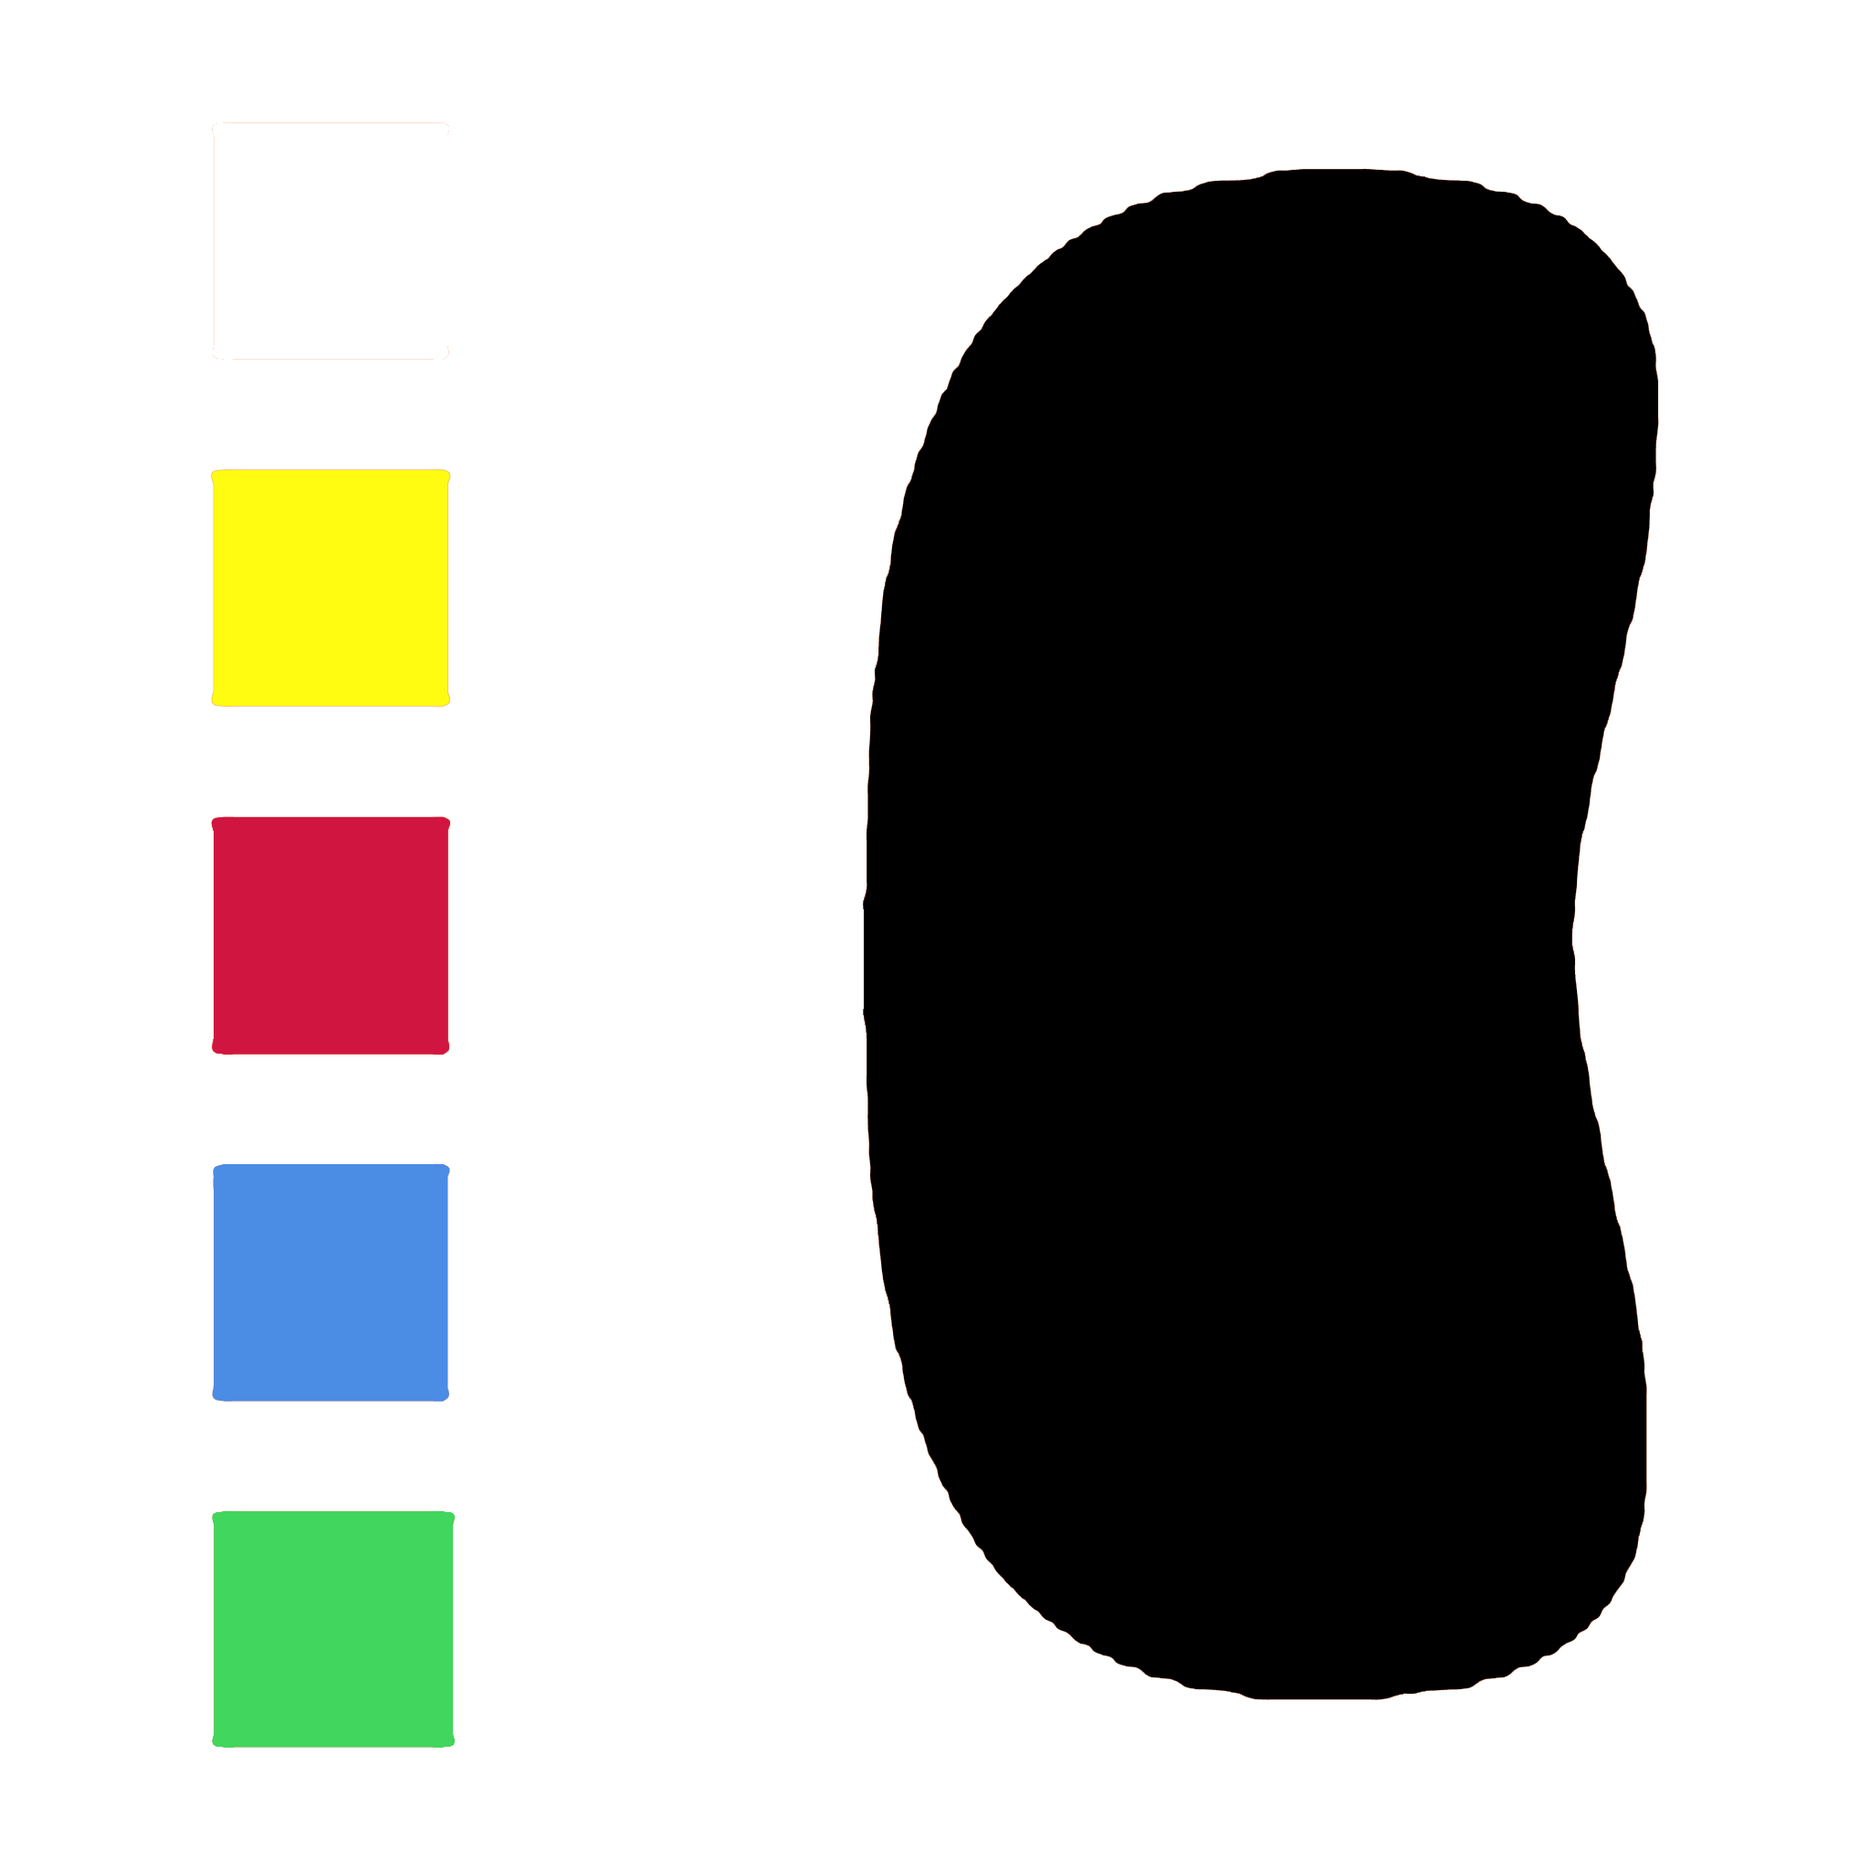
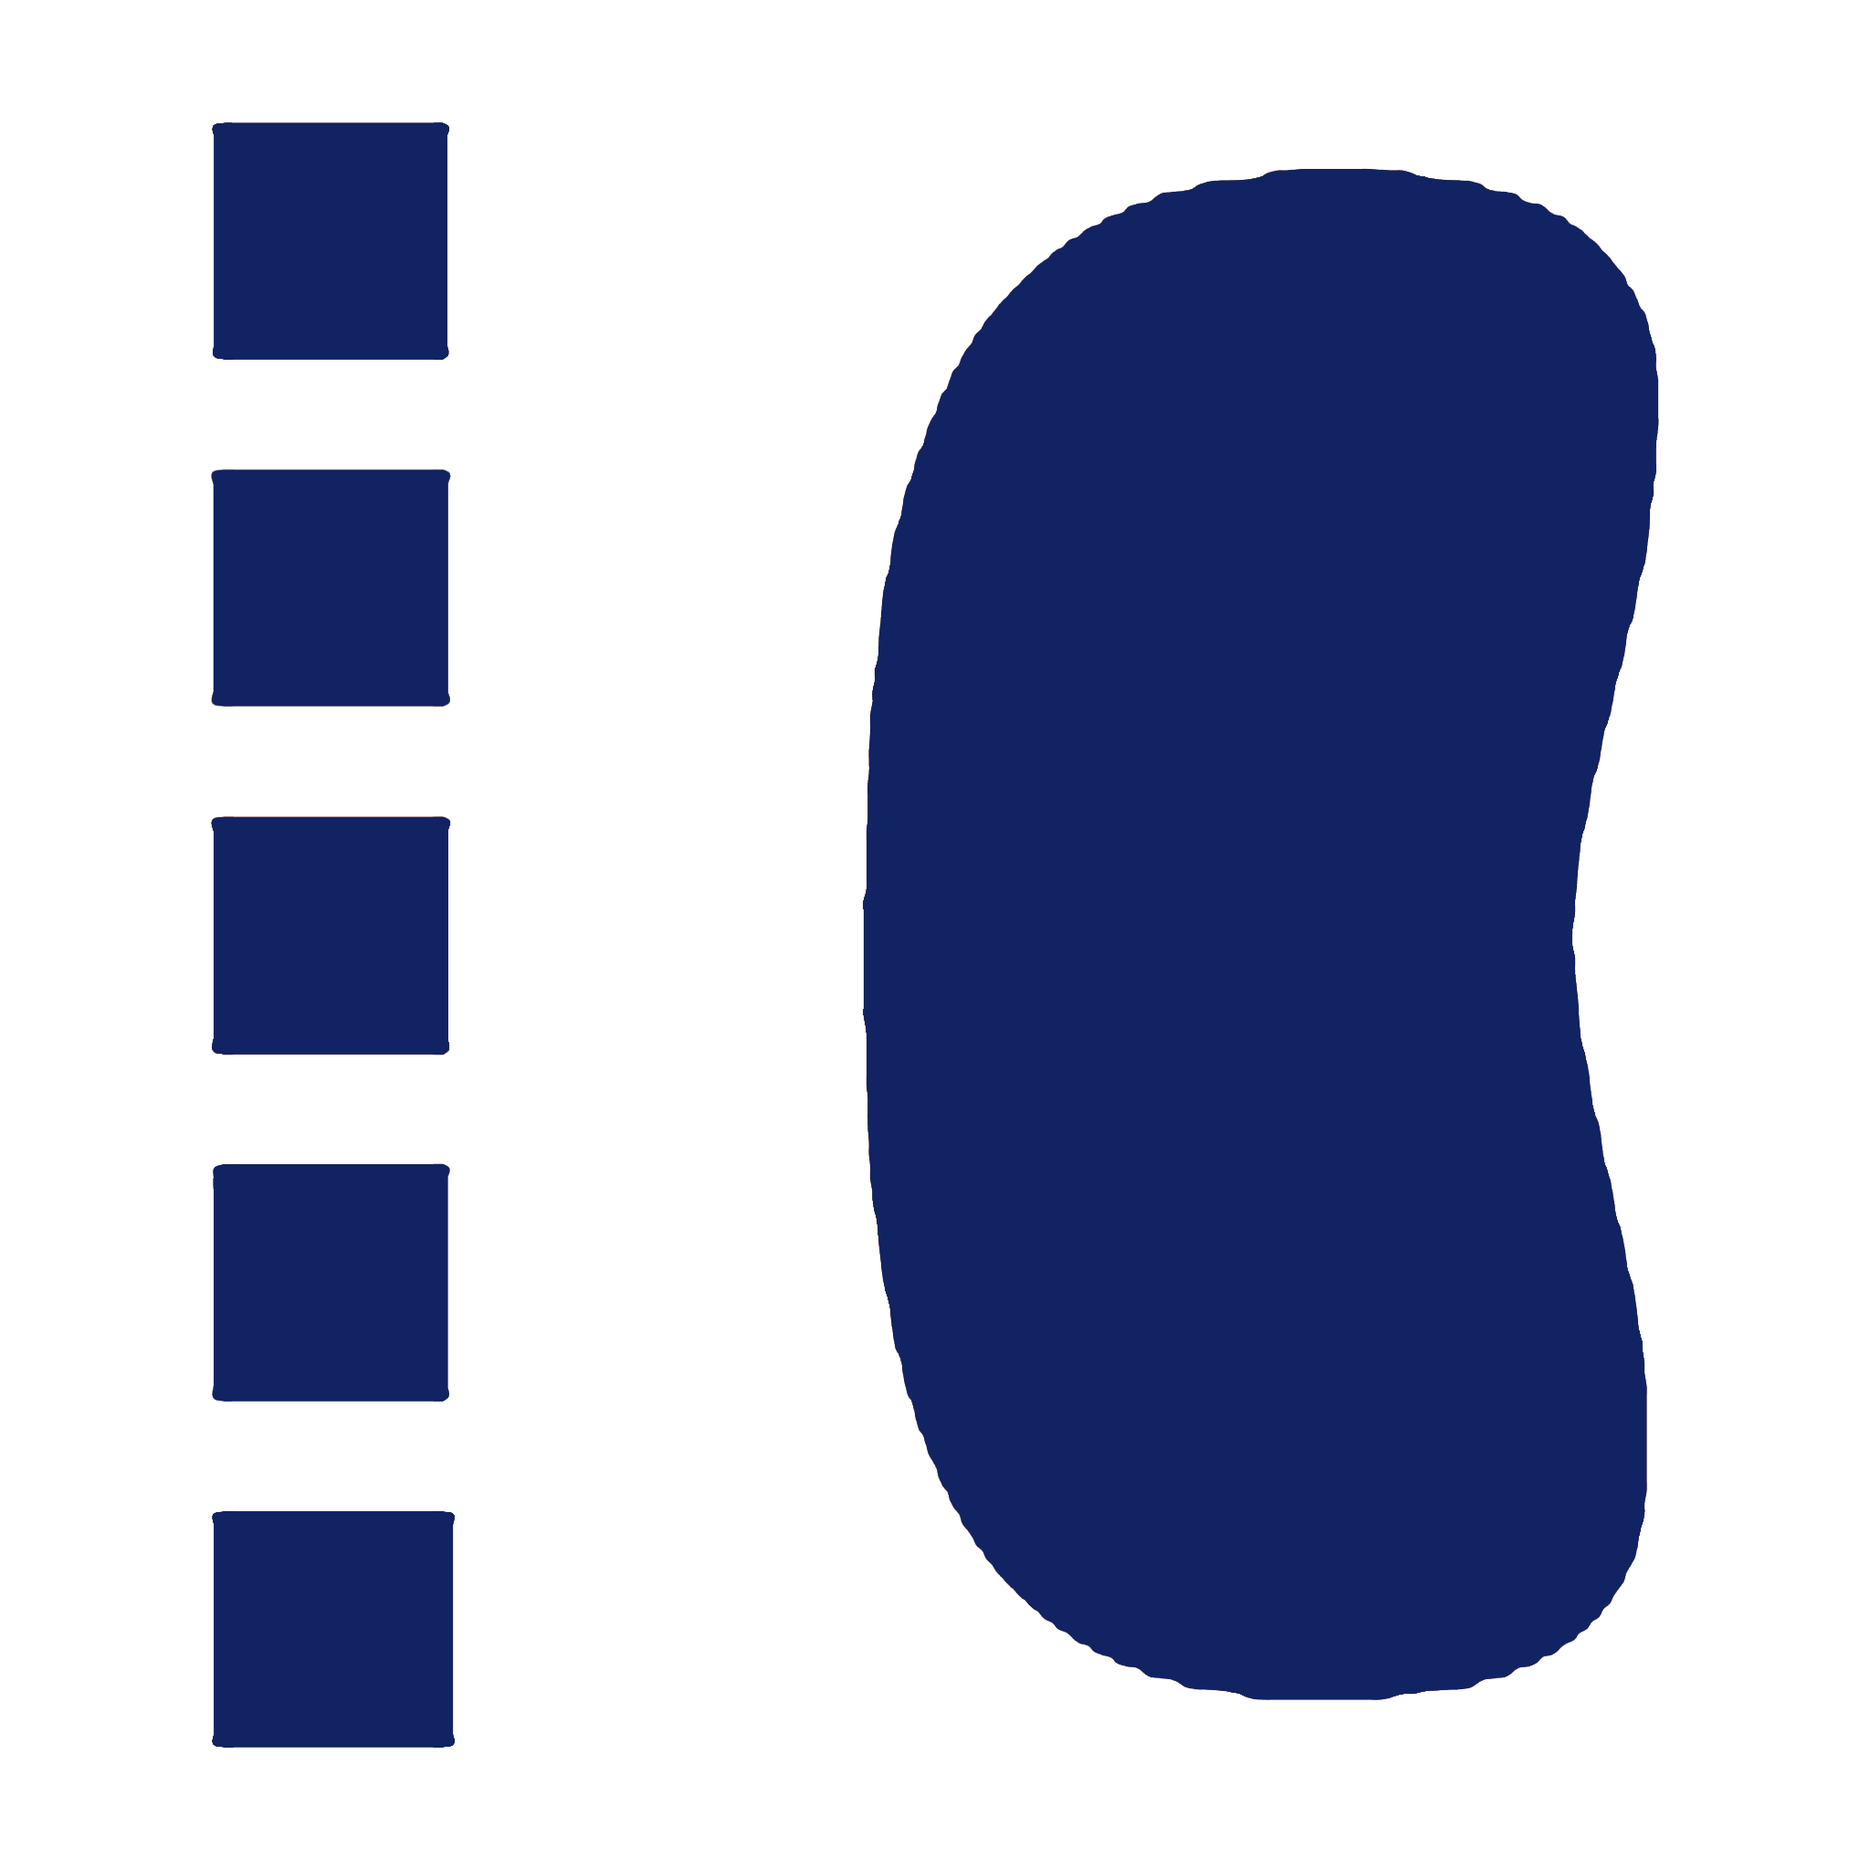
added psych sheet page

diff --git a/psych-sheet.html b/psych-sheet.html
@@ -1,0 +1,292 @@
+<!DOCTYPE html>
+<html lang="en">
+
+<head>
+  <meta charset="utf-8">
+  <title>TheEvent - Bootstrap Event Template</title>
+  <meta content="width=device-width, initial-scale=1.0" name="viewport">
+  <meta content="" name="keywords">
+  <meta content="" name="description">
+
+  <!-- Favicons -->
+  <link href="img/favicon.png" rel="icon">
+  <link href="img/apple-touch-icon.png" rel="apple-touch-icon">
+
+  <!-- Google Fonts -->
+  <link href="https://fonts.googleapis.com/css?family=Open+Sans:300,300i,400,400i,700,700i|Raleway:300,400,500,700,800" rel="stylesheet">
+
+  <!-- Bootstrap CSS File -->
+  <link href="lib/bootstrap/css/bootstrap.min.css" rel="stylesheet">
+
+  <!-- Libraries CSS Files -->
+  <link href="lib/font-awesome/css/font-awesome.min.css" rel="stylesheet">
+  <link href="lib/animate/animate.min.css" rel="stylesheet">
+  <link href="lib/venobox/venobox.css" rel="stylesheet">
+  <link href="lib/owlcarousel/assets/owl.carousel.min.css" rel="stylesheet">
+
+  <!-- Main Stylesheet File -->
+  <link href="css/style.css" rel="stylesheet">
+    <link href="css/materialize.css" rel="stylesheet">
+
+  <!-- =======================================================
+    Theme Name: TheEvent
+    Theme URL: https://bootstrapmade.com/theevent-conference-event-bootstrap-template/
+    Author: BootstrapMade.com
+    License: https://bootstrapmade.com/license/
+  ======================================================= -->
+</head>
+
+<body>
+
+  <!--==========================
+    Header
+  ============================-->
+  <header id="header">
+    <div class="container">
+
+      <div id="logo" class="pull-left">
+        <!-- Uncomment below if you prefer to use a text logo -->
+          <!--<h1><a href="#main">Indian<span>Nationals</span></a></h1>-->
+        <a href="#intro" class="scrollto"><img src="img/logo.png" alt="" title=""></a>
+      </div>
+
+      <nav id="nav-menu-container">
+        <ul class="nav-menu">
+          <li><a href="index.html">Home</a></li>
+          <li><a href="venue.html">Venue</a></li>
+          <li><a href="events.html">Events</a></li> <!-- events.html doesn't exist for now -->
+          <li><a href="schedule.html">Schedule</a></li>
+          <li><a href="hotels.html">Hotels</a></li>
+          <li><a href="faq.html">FAQ</a></li>
+          <li><a href="contact.html">Contact Us</a></li>
+          <li><a href="sponsors.html">Sponsors</a></li>
+          <li class="menu-active"><a href="team.html">Team</a></li>
+          <li class="buy-tickets"><a href="#buy-tickets">Register</a></li>
+        </ul>
+      </nav><!-- #nav-menu-container -->
+    </div>
+  </header><!-- #header -->
+
+  <main id="main" class="main-page">
+
+    <!--==========================
+      Speaker Details Section
+    ============================-->
+    <section id="speakers-details" class="wow fadeIn">
+      <div class="container">
+        <div class="section-header">
+          <h2>Competitors</h2>
+          <p>Click on events to access psych sheet.</p>
+        </div>
+
+
+
+          <div align="center">
+            <div class="details">
+              <div class="social">
+
+
+                <a href="a3" role="tab" data-toggle="tab"><img src="img/events/3x3.png" class="center"></a>
+                <a href=""><img src="img/events/2x2.png" class="center"></a>
+                <a href=""><img src="img/events/4x4.png" class="center"></a>
+                <a href=""><img src="img/events/5x5.png" class="center"></a>
+                <a href=""><img src="img/events/6x6.png" class="center"></a>
+                <a href=""><img src="img/events/7x7.png" class="center"></a>
+                <a href=""><img src="img/events/3bld.png" class="center"></a>
+                <a href=""><img src="img/events/fmc.png" class="center"></a>
+                <a href=""><img src="img/events/3oh.png" class="center"></a>
+                <a href=""><img src="img/events/Feet.png" class="center"></a>
+                <a href=""><img src="img/events/Clock.png" class="center"></a>
+                <a href=""><img src="img/events/minx.png" class="center"></a>
+                <a href=""><img src="img/events/pyra.png" class="center"></a>
+                <a href=""><img src="img/events/skewb.png" class="center"></a>
+                <a href=""><img src="img/events/sq1.png" class="center"></a>
+                <a href=""><img src="img/events/4BLD.png" class="center"></a>
+                <a href=""><img src="img/events/5BLD.png" class="center"></a>
+                <a href=""><img src="img/events/MBLD.png" class="center"></a>
+              </div>
+            </div>
+          </div>
+
+          <div class="tab-content row justify-content-center">
+            <!-- Competitors Table -->
+            <div role="tabpanel" class="col-lg-9 tab-pane fade show active" id="comp">
+              <table class = "striped">
+                <thead>
+                  <tr>
+                    <th> Name </th>
+                    <th> Citizen of </th>
+                    <th> <img src="img/events/3x3.png" class="low"> </th>
+                    <th> <img src="img/events/2x2.png" class="low">  </th>
+                    <th> <img src="img/events/4x4.png" class="low">  </th>
+                    <th> <img src="img/events/5x5.png" class="low"> </th>
+                    <th> <img src="img/events/6x6.png" class="low"> </th>
+                    <th> <img src="img/events/7x7.png" class="low"> </th>
+                    <th> <img src="img/events/3BLD.png" class="low"> </th>
+                    <th> <img src="img/events/FMC.png" class="low"> </th>
+                    <th> <img src="img/events/3oh.png" class="low"> </th>
+                    <th> <img src="img/events/Feet.png" class="low"> </th>
+                    <th> <img src="img/events/Clock.png" class="low"> </th>
+                    <th> <img src="img/events/minx.png" class="low"> </th>
+                    <th> <img src="img/events/pyra.png" class="low"> </th>
+                    <th> <img src="img/events/skewb.png" class="low"> </th>
+                    <th> <img src="img/events/sq1.png" class="low"> </th>
+                    <th> <img src="img/events/4BLD.png" class="low"> </th>
+                    <th> <img src="img/events/5BLD.png" class="low"> </th>
+                    <th> <img src="img/events/MBLD.png" class="low"> </th>
+                    <th> Total </th>
+                  </tr>
+                </thead>
+                <tbody>
+                  <tr>
+                    <td> Piyush </td>
+                    <td> India </td>
+                    <td> <img src="img/events/3x3.png" class="lowerrow"> </td>
+                    <td> </td>
+                    <td> </td>
+                    <td> </td>
+                    <td> </td>
+                    <td> </td>
+                    <td> </td>
+                    <td> </td>
+                    <td> </td>
+                    <td> </td>
+                    <td> </td>
+                    <td> </td>
+                    <td> </td>
+                    <td> </td>
+                    <td> </td>
+                    <td> </td>
+                    <td> </td>
+                    <td> </td>
+                    <td> 1 </td>
+                  </tr>
+
+              </table>
+            </div>
+          </div>
+          <!-- 3x3 Psych Sheet Table -->
+          <div role="tabpanel" class="col-lg-9  tab-pane fade" id="a3">
+            <table class = "striped">
+              <thead>
+                <tr>
+                  <th> Name </th>
+                  <th> Citizen of </th>
+                  <th> Average </th>
+                  <th> WR </th>
+                  <th> Single </th>
+                  <th> WR </th>
+                </tr>
+              </thead>
+              <tbody>
+                <td> Piyush </td>
+                <td> India </td>
+                <td> </td>
+                <td> </td>
+                <td> </td>
+                <td> </td>
+            </div>
+        </div>
+      </div>
+
+    </section>
+
+  </main>
+
+
+  <!--==========================
+    Footer
+  ============================-->
+  <footer id="footer">
+    <div class="footer-top">
+      <div class="container">
+        <div class="row">
+
+          <div class="col-lg-3 col-md-6 footer-info">
+            <img src="img/logo.png" alt="TheEvenet">
+            <p>In alias aperiam. Placeat tempore facere. Officiis voluptate ipsam vel eveniet est dolor et totam porro. Perspiciatis ad omnis fugit molestiae recusandae possimus. Aut consectetur id quis. In inventore consequatur ad voluptate cupiditate debitis accusamus repellat cumque.</p>
+          </div>
+
+          <div class="col-lg-3 col-md-6 footer-links">
+            <h4>Useful Links</h4>
+            <ul>
+              <li><i class="fa fa-angle-right"></i> <a href="#">Home</a></li>
+              <li><i class="fa fa-angle-right"></i> <a href="#">About us</a></li>
+              <li><i class="fa fa-angle-right"></i> <a href="#">Services</a></li>
+              <li><i class="fa fa-angle-right"></i> <a href="#">Terms of service</a></li>
+              <li><i class="fa fa-angle-right"></i> <a href="#">Privacy policy</a></li>
+            </ul>
+          </div>
+
+          <div class="col-lg-3 col-md-6 footer-links">
+            <h4>Useful Links</h4>
+            <ul>
+              <li><i class="fa fa-angle-right"></i> <a href="#">Home</a></li>
+              <li><i class="fa fa-angle-right"></i> <a href="#">About us</a></li>
+              <li><i class="fa fa-angle-right"></i> <a href="#">Services</a></li>
+              <li><i class="fa fa-angle-right"></i> <a href="#">Terms of service</a></li>
+              <li><i class="fa fa-angle-right"></i> <a href="#">Privacy policy</a></li>
+            </ul>
+          </div>
+
+          <div class="col-lg-3 col-md-6 footer-contact">
+            <h4>Contact Us</h4>
+            <p>
+              A108 Adam Street <br>
+              New York, NY 535022<br>
+              United States <br>
+              <strong>Phone:</strong> +1 5589 55488 55<br>
+              <strong>Email:</strong> info@example.com<br>
+            </p>
+
+            <div class="social-links">
+              <a href="#" class="twitter"><i class="fa fa-twitter"></i></a>
+              <a href="#" class="facebook"><i class="fa fa-facebook"></i></a>
+              <a href="#" class="instagram"><i class="fa fa-instagram"></i></a>
+              <a href="#" class="google-plus"><i class="fa fa-google-plus"></i></a>
+              <a href="#" class="linkedin"><i class="fa fa-linkedin"></i></a>
+            </div>
+
+          </div>
+
+        </div>
+      </div>
+    </div>
+
+    <div class="container">
+      <div class="copyright">
+        &copy; Copyright <strong>TheEvent</strong>. All Rights Reserved
+      </div>
+      <div class="credits">
+        <!--
+          All the links in the footer should remain intact.
+          You can delete the links only if you purchased the pro version.
+          Licensing information: https://bootstrapmade.com/license/
+          Purchase the pro version with working PHP/AJAX contact form: https://bootstrapmade.com/buy/?theme=TheEvent
+        -->
+        Designed by <a href="https://bootstrapmade.com/">BootstrapMade</a>
+      </div>
+    </div>
+  </footer><!-- #footer -->
+
+  <a href="#" class="back-to-top"><i class="fa fa-angle-up"></i></a>
+
+  <!-- JavaScript Libraries -->
+  <script src="lib/jquery/jquery.min.js"></script>
+  <script src="lib/jquery/jquery-migrate.min.js"></script>
+  <script src="lib/bootstrap/js/bootstrap.bundle.min.js"></script>
+  <script src="lib/easing/easing.min.js"></script>
+  <script src="lib/superfish/hoverIntent.js"></script>
+  <script src="lib/superfish/superfish.min.js"></script>
+  <script src="lib/wow/wow.min.js"></script>
+  <script src="lib/venobox/venobox.min.js"></script>
+  <script src="lib/owlcarousel/owl.carousel.min.js"></script>
+
+  <!-- Contact Form JavaScript File -->
+  <script src="contactform/contactform.js"></script>
+
+  <!-- Template Main Javascript File -->
+  <script src="js/main.js"></script>
+</body>
+
+</html>

diff --git a/css/style.css b/css/style.css
@@ -781,13 +781,13 @@ body.mobile-nav-active #mobile-nav-toggle {
   display: inline-block;
   text-align: center;
   border-radius: 50%;
-  width: 36px;
-  height: 36px;
+  width: 46px;
+  height: 46px;
   padding-top: 9px;
 }
 
 #speakers-details .details .social a:hover {
-  background: #f82249;
+  background: #d3dbf7;
   color: #fff;
 }
 
@@ -1680,21 +1680,49 @@ body.mobile-nav-active #mobile-nav-toggle {
 # Added by Piyush
 --------------------------------------------------------------*/
 img {
-  height: 2em;
-  display: block;
+ height: 2em;
+ display: block;
 }
 
-.center {
-  display: block;
-  margin-left: auto;
-  margin-right: auto;
+
+.low{
+ height: 1em;
+ filter: gray; /* IE5+ */
+     -webkit-filter: grayscale(1);
 }
+.lowerrow{
+ height: .8em;
+ filter: gray; /* IE5+ */
+     -webkit-filter: grayscale(1);
+}
+.center {
+ height: 1.5em;
+ display: block;
+ margin-left: auto;
+ margin-right: auto;
+ filter: gray; /* IE5+ */
+     -webkit-filter: grayscale(1); /* Webkit Nightlies & Chrome Canary */
+     -webkit-transition: all 1s ease-in-out;
+}
+.selected{
+ filter: none;
+   -webkit-filter: grayscale(0);
+   -webkit-transform: scale(1.01);
+}
+
 
 img::after{
-  content: '\A';
+ content: '\A';
 }
-.bldroom {
-  background-color: ffab91
+
+img:hover {
+   filter: none;
+     -webkit-filter: grayscale(0) brightness(0) invert(100);
+     -webkit-transform: scale(1.01);
+   }
+
+.white {
+ background-color: ffab91
 }
 .grey {
   background-color: rgba(128,128,128,.25);
